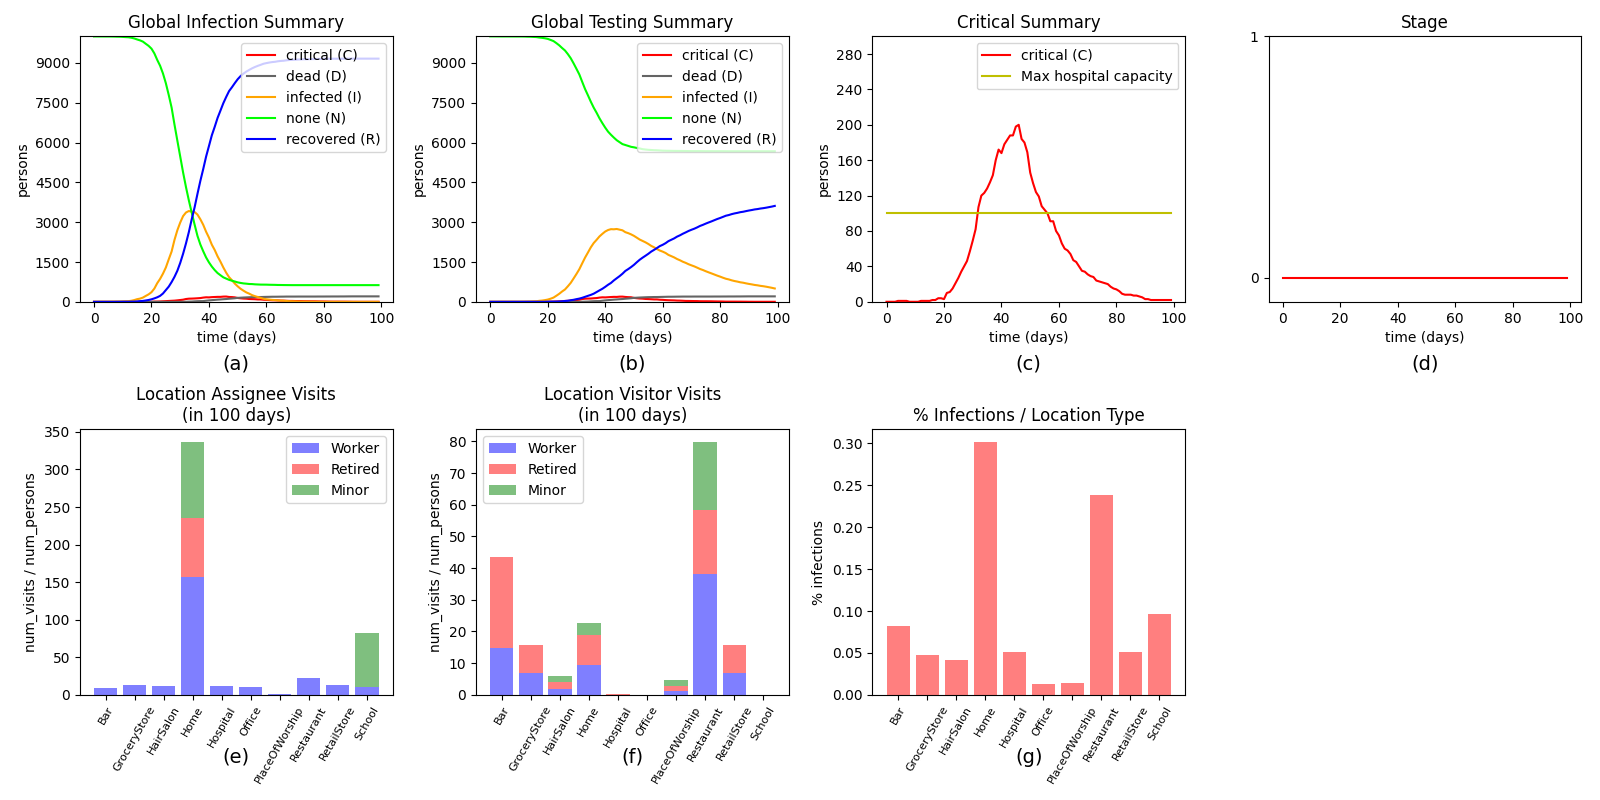
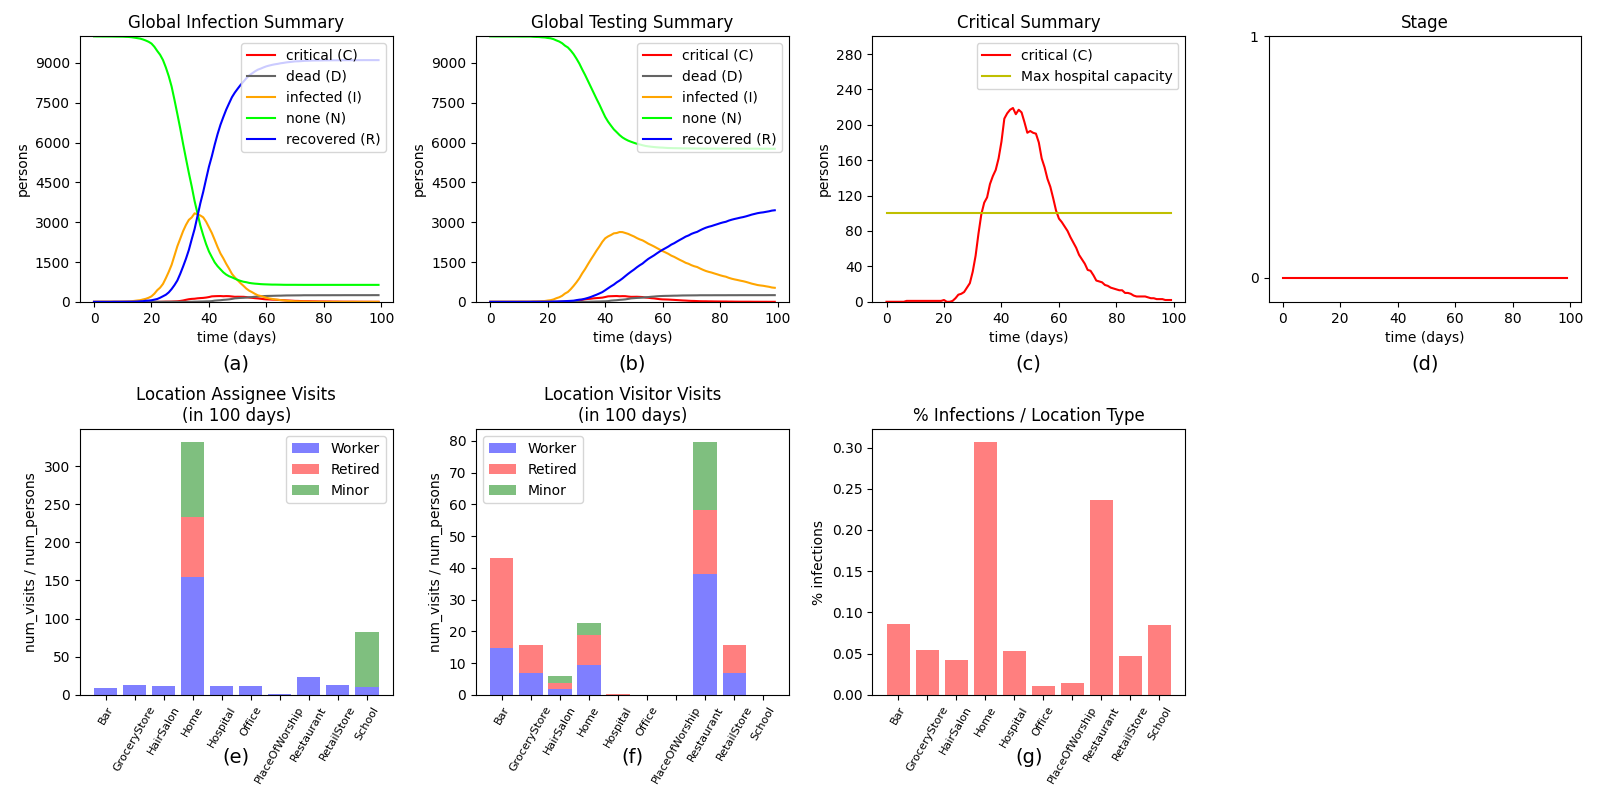
updates to simulator - should be good

diff --git a/python/pandemic_simulator/script_helpers/covid_regulations.py b/python/pandemic_simulator/script_helpers/covid_regulations.py
@@ -1,7 +1,7 @@
 # Confidential, Copyright 2020, Sony Corporation of America, All rights reserved.
 from typing import List
 
-from ..environment import PandemicRegulation, DEFAULT, Risk, Office, School, HairSalon, RetailStore, Restaurant, Bar
+from ..environment import PandemicRegulation, DEFAULT, Risk, Office, School, HairSalon, RetailStore, Restaurant, Bar, PlaceOfWorship
 
 __all__ = ['austin_regulations', 'italian_regulations', 'swedish_regulations']
 
@@ -18,6 +18,7 @@ austin_regulations: List[PandemicRegulation] = [
                            RetailStore: {'lock': False},
                            Bar: {'lock': False},
                            Restaurant: {'lock': False},
+                           PlaceOfWorship: {'lock': False},
                        },
                        stage=0),
     PandemicRegulation(stay_home_if_sick=True,
@@ -32,6 +33,7 @@ austin_regulations: List[PandemicRegulation] = [
                            RetailStore: {'lock': False},
                            Restaurant: {'lock': False},
                            Bar: {'lock': False},
+                           PlaceOfWorship: {'lock': False},
                        },
                        stage=1),
     PandemicRegulation(stay_home_if_sick=True,
@@ -46,6 +48,7 @@ austin_regulations: List[PandemicRegulation] = [
                            RetailStore: {'lock': False},
                            Restaurant: {'lock': False},
                            Bar: {'lock': False},
+                           PlaceOfWorship: {'lock': False},
                        },
                        stage=2),
     PandemicRegulation(stay_home_if_sick=True,
@@ -60,6 +63,8 @@ austin_regulations: List[PandemicRegulation] = [
                            RetailStore: {'lock': False},
                            Restaurant: {'lock': True},
                            Bar: {'lock': True},
+                           PlaceOfWorship: {'lock': False},
+                           
                        },
                        stage=3),
     PandemicRegulation(stay_home_if_sick=True,
@@ -74,6 +79,7 @@ austin_regulations: List[PandemicRegulation] = [
                            RetailStore: {'lock': True},
                            Restaurant: {'lock': True},
                            Bar: {'lock': True},
+                           PlaceOfWorship: {'lock': False},
                        },
                        stage=4)
 ]

diff --git a/python/pandemic_simulator/script_helpers/sim_configs.py b/python/pandemic_simulator/script_helpers/sim_configs.py
@@ -115,6 +115,6 @@ town_with_religion_config = PandemicSimConfig(
         LocationConfig(HairSalon, num=40, num_assignees=3, state_opts=dict(visitor_capacity=5)),
         LocationConfig(Restaurant, num=20, num_assignees=6, state_opts=dict(visitor_capacity=30)),
         LocationConfig(Bar, num=20, num_assignees=5, state_opts=dict(visitor_capacity=30)),
-        LocationConfig(PlaceOfWorship, num=20, num_assignees=7, state_opts=dict(visitor_capacity=80)),
+        LocationConfig(PlaceOfWorship, num=11, num_assignees=3, state_opts=dict(visitor_capacity=250)),
     ],
     person_routine_assignment=DefaultPersonRoutineAssignment())
